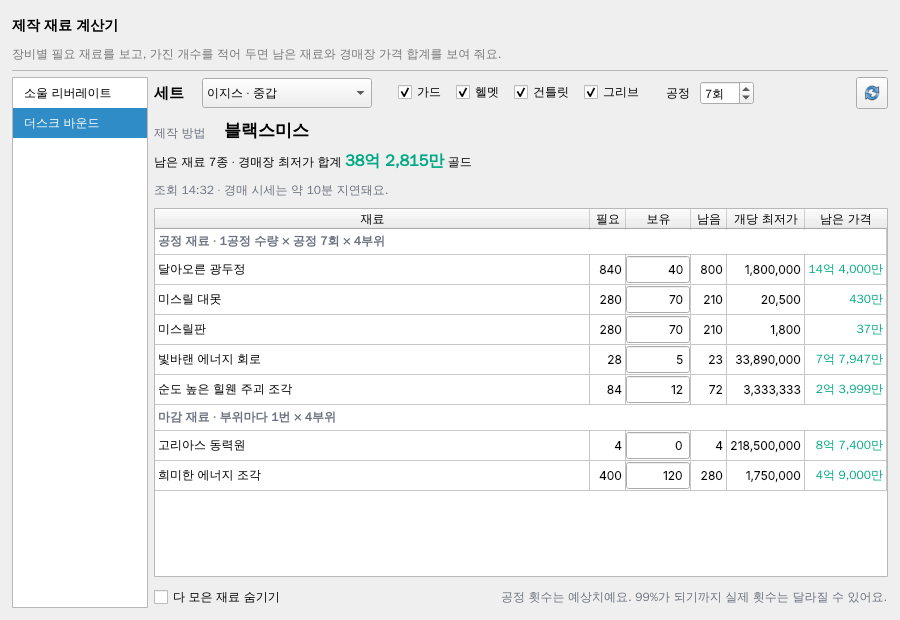
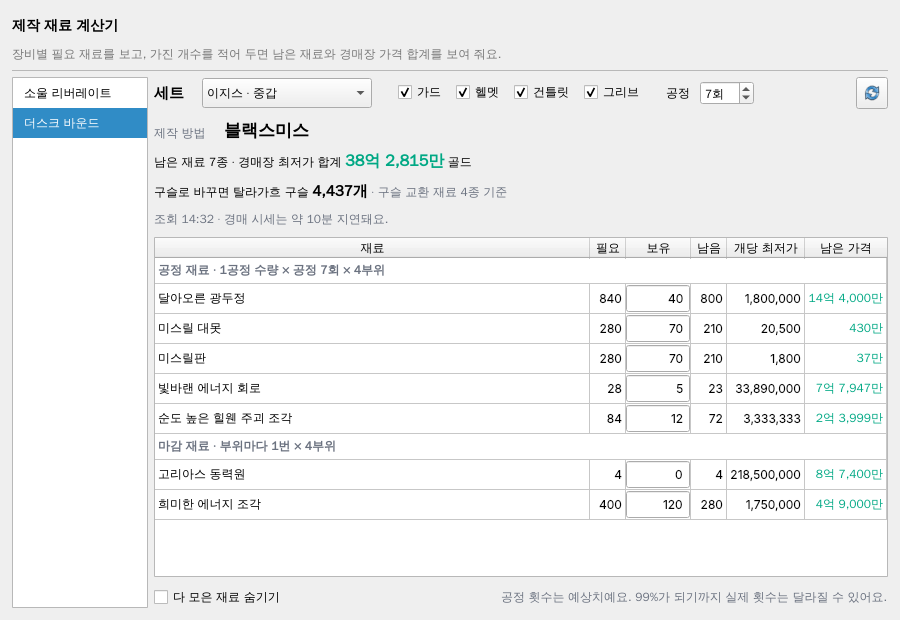
docs: 더스크 바운드 남은 재료 구슬 합계(환전비율 교환표 기준) — 사용자 결정 11-16
Claude-Session: https://claude.ai/code/session_012tR8ejYmFbfiysA27exRqd

Changed region(s): [[0.1556, 0.2758, 0.9956, 0.8581]]

diff --git a/docs/craft-material-calculator-spec.md b/docs/craft-material-calculator-spec.md
@@ -65,6 +65,7 @@
 | 아래 안내 | `공정 횟수는 예상치예요. 99%가 되기까지 실제 횟수는 달라질 수 있어요.`(소울 리버레이트에선 1절 보유 안내) |
 | 저장 | 보유는 3절 그대로(재료별 — 빛바랜 에너지 회로·마감 재료처럼 세트끼리 같은 재료는 공유). 세트별 체크한 부위·공정 횟수도 config에 기억(`craftChoice`). |
 | 시세 | 4절 그대로(그 세트 재료 전부 조회, 재료별 10분 캐시). |
+| 구슬 합계 | 사용자 결정 11-16. 합계 줄 바로 아래 한 줄: `구슬로 바꾸면 탈라가흐 구슬 N개`(굵게) + 흐린 `· 구슬 교환 재료 K종 기준`. N = 남은 재료 중 **환전비율 계산기 교환표(`market.exchange.REGIONS`)에 있는 재료**의 남음 × 구슬 수 합. 교환표가 하나의 출처(JSON에 구슬 수를 따로 적지 않음). 교환표에 없는 재료(미스릴 대못·미스릴판·질긴 실·최고급 실크·최고급 옷감·희미한 에너지 조각 — 제작 재료)는 **표시 없이 제외**(지금은 안내도 하지 않음). 지역이 여럿이면 `탈라가흐 구슬 N개 · 브리레흐 구슬 M개`. 소울 리버레이트에는 이번에 넣지 않음. |
 
 ## 6. 하위 재료 펼치기 (사용자 결정 11-16)
 
@@ -86,6 +87,6 @@
 - 계산(순수 함수): 남음·남은 가격·합계, 매물 없음·조회 실패 제외와 종 수, 정렬(남은 위·데이터 순서 유지), 보유 > 필요.
 - 보유 저장: 재료별 공유(소드에서 정수 입력 → 블레이드에서 같은 값), 재시작 후 유지.
 - 시세: 가짜 urlopen으로 성공·매물 없음·일부 실패·키 없음, 10분 캐시 재사용·새로고침 강제.
-- 더스크 바운드: 3세트 × 4부위, 필요 수량 = 1공정 × 공정 × 부위 / 마감 × 부위(이지스 4부위 7공정 → 광두정 840·동력원 4), 부위 0개 안내, 세트 바꿔도 공통 재료 보유 유지, 체크·공정 기억.
+- 더스크 바운드: 3세트 × 4부위, 필요 수량 = 1공정 × 공정 × 부위 / 마감 × 부위(이지스 4부위 7공정 → 광두정 840·동력원 4), 부위 0개 안내, 세트 바꿔도 공통 재료 보유 유지, 체크·공정 기억. 구슬: 이지스 4부위 7공정 보유 0 → 광두정 840×3 + 회로 28×35 + 주괴 84×6 + 동력원 4×200 = 4,804개, 다 모은 재료·교환표에 없는 재료 제외, 교환표 값 바뀌면 따라감.
 - 하위 재료: 하위 수량 = 부모 남음 × 개당(견고한 기억의 결정 남음 3 → 오피먼트 30·퓨어 젬스톤 6), 부모 다 모음 → 하위 0, 비교 줄 X·Y와 제외 문구, 상점 재료 조회 안 함·합 제외, 위쪽 합계는 펼쳐도 그대로, `crafts` 28종 순환 없음·꼬리표 없음.
 - 화면: 오프스크린 렌더(시세 있음·조회 중·키 없음·다 모음 숨기기, 더스크 바운드 세 세트·부위 일부 체크, 하위 재료 펼침 2단계) 사용자 확인.

diff --git a/docs/status.md b/docs/status.md
@@ -6,7 +6,7 @@
 
 ## 배포와 검증
 
-- **제작 재료 계산기 + 더스크 바운드 추가(2026-11-15 사용자 결정 — 모든 사용자 공개, 개발 대상)**: [명세](craft-material-calculator-spec.md). 더스크 바운드(5절): 이지스·비고러스·에테리얼 3세트 × 4부위(재료 같음), 부위 체크 + 공정 횟수(기본 7) × 1공정 재료 + 부위마다 마감 재료, 데이터 `dusk_bound.json`. 하위 재료 펼치기(6절, 11-16): 트리 표로 ▸ 누르면 만드는 재료(부모 남음 × 개당), 비교 줄 '직접 만들면 X (사면 Y)', 위쪽 합계는 1단계 기준 그대로, 상점 재료는 표시만. 편의기능 › `제작 재료 계산기`, 왼쪽 시리즈 목록(지금 `소울 리버레이트`만 — 더스크 바운드·나이트 브링어는 나중에 데이터만 추가),
+- **제작 재료 계산기 + 더스크 바운드 추가(2026-11-15 사용자 결정 — 모든 사용자 공개, 개발 대상)**: [명세](craft-material-calculator-spec.md). 더스크 바운드(5절): 이지스·비고러스·에테리얼 3세트 × 4부위(재료 같음), 부위 체크 + 공정 횟수(기본 7) × 1공정 재료 + 부위마다 마감 재료, 데이터 `dusk_bound.json`. 하위 재료 펼치기(6절, 11-16): 트리 표로 ▸ 누르면 만드는 재료(부모 남음 × 개당), 비교 줄 '직접 만들면 X (사면 Y)', 위쪽 합계는 1단계 기준 그대로, 상점 재료는 표시만. 더스크 바운드 구슬 합계(11-16): 남은 재료 중 환전비율 계산기 교환표에 있는 것만 남음 × 구슬 수 → `탈라가흐 구슬 N개`. 편의기능 › `제작 재료 계산기`, 왼쪽 시리즈 목록(지금 `소울 리버레이트`만 — 더스크 바운드·나이트 브링어는 나중에 데이터만 추가),
   `무기` 드롭다운 한 줄 + `제작 방법` 17px, 표 `재료|필요|보유|남음|개당 최저가|남은 가격`(남은 것 위), 남은 재료 경매장 최저가 합계. 보유 = 재료별 저장(무기끼리 공유).
   데이터 = 커뮤니티 시트 `무기재료` 29종 × 1단계 8종(`docs/assets/craft-materials-20261115/soul_liberate.json`), 워리어 실드 제작 스킬은 인게임 화면으로 힐웬 공학 확정.
 
